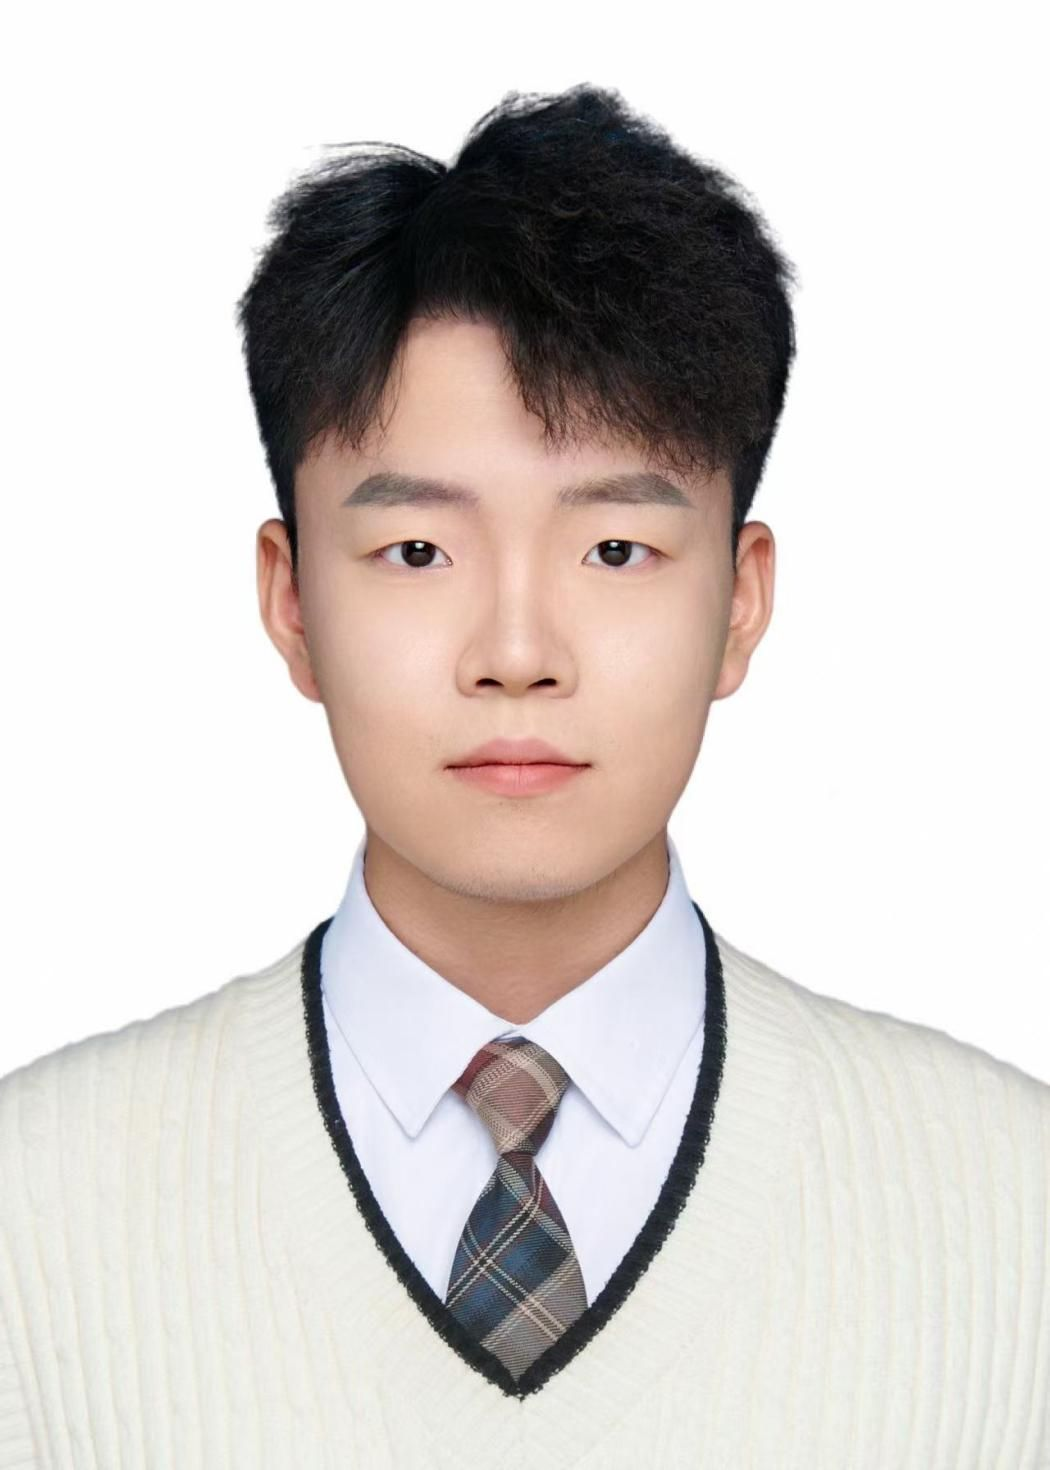
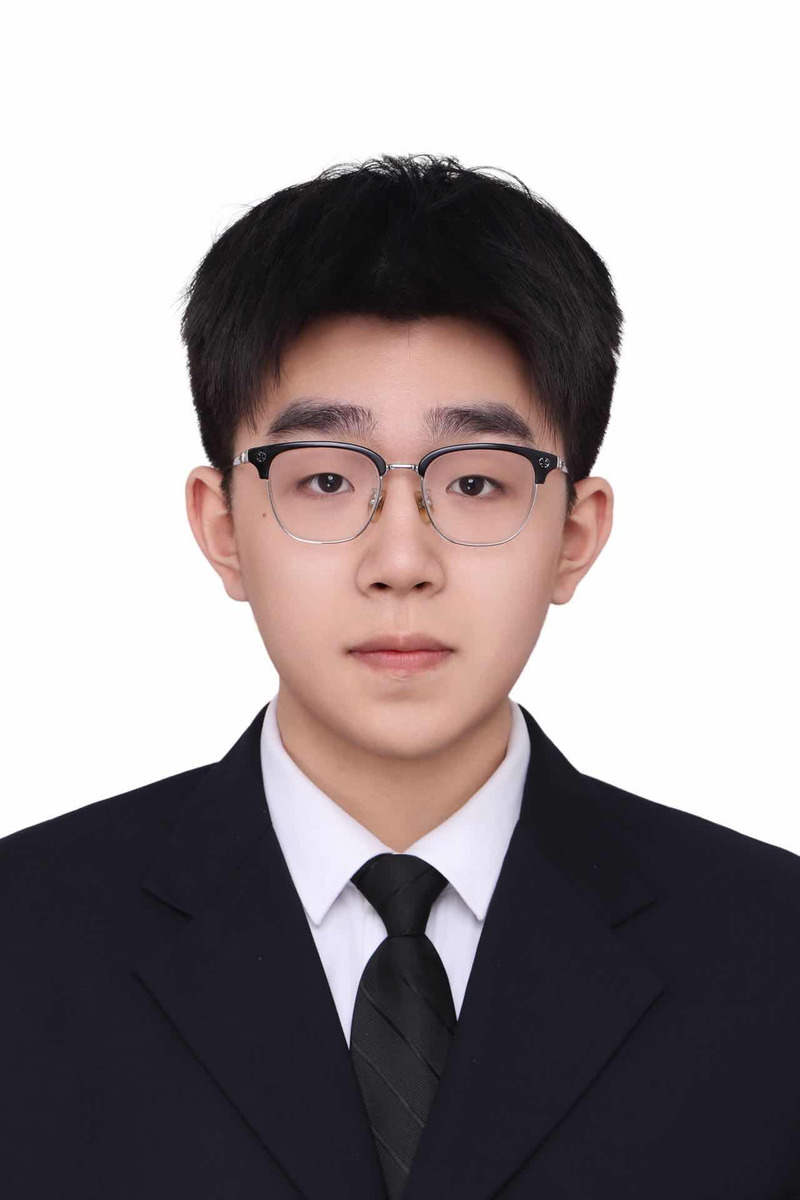
Update 2026 MPhil roster and member photos

diff --git a/members/preview.html b/members/preview.html
@@ -28,7 +28,7 @@
     左：<code>members/originals/</code>（原图，脚本不会改）。
     右：<code>members/images/</code>（站点实际使用）。
     规则：最长边不超过 1200px，JPEG 质量 92、4:4:4；已经更小的 JPEG 原样拷贝；<code>default.jpg</code> 不重压。
-    189 张对照；原图合计 68.7 MB，使用图合计 21.9 MB。
+    194 张对照；原图合计 74.1 MB，使用图合计 22.8 MB。
   </p>
   <div class="toolbar">
     <input type="search" id="q" placeholder="按文件名筛选…" />
@@ -2583,19 +2583,19 @@
   </div>
   
 </article>
-<article class="card" data-name="liyuhan liyuhan.jpg">
+<article class="card" data-name="liyuhan liyuhan.png">
   <h2>liyuhan</h2>
   <div class="pair">
     <figure>
-      <img src="originals/liyuhan.jpg" alt="liyuhan.jpg original" />
-      <figcaption>original · liyuhan.jpg · 1050×1470 · 90 KB</figcaption>
+      <img src="originals/liyuhan.png" alt="liyuhan.png original" />
+      <figcaption>original · liyuhan.png · 1280×1920 · 687 KB</figcaption>
     </figure>
     <figure>
       <img src="images/liyuhan.jpg" alt="liyuhan used" />
-      <figcaption>used · 1050×1470 · 90 KB · kept original bytes</figcaption>
+      <figcaption>used · 800×1200 · 94 KB · 14% of original</figcaption>
     </figure>
   </div>
-  
+
 </article>
 <article class="card" data-name="guozimo guozimo.jpg">
   <h2>guozimo</h2>
@@ -2680,6 +2680,76 @@
     </figure>
   </div>
   
+</article>
+<article class="card" data-name="zhengjialong zhengjialong.jpg">
+  <h2>zhengjialong</h2>
+  <div class="pair">
+    <figure>
+      <img src="originals/zhengjialong.jpg" alt="zhengjialong.jpg original" />
+      <figcaption>original · zhengjialong.jpg · 1050×1470 · 90 KB</figcaption>
+    </figure>
+    <figure>
+      <img src="images/zhengjialong.jpg" alt="zhengjialong used" />
+      <figcaption>used · 1050×1470 · 90 KB · kept original bytes</figcaption>
+    </figure>
+  </div>
+
+</article>
+<article class="card" data-name="shiqi shiqi.png">
+  <h2>shiqi</h2>
+  <div class="pair">
+    <figure>
+      <img src="originals/shiqi.png" alt="shiqi.png original" />
+      <figcaption>original · shiqi.png · 1280×1645 · 1059 KB</figcaption>
+    </figure>
+    <figure>
+      <img src="images/shiqi.jpg" alt="shiqi used" />
+      <figcaption>used · 934×1200 · 171 KB · 16% of original</figcaption>
+    </figure>
+  </div>
+
+</article>
+<article class="card" data-name="tangruijie tangruijie.jpg">
+  <h2>tangruijie</h2>
+  <div class="pair">
+    <figure>
+      <img src="originals/tangruijie.jpg" alt="tangruijie.jpg original" />
+      <figcaption>original · tangruijie.jpg · 800×1000 · 63 KB</figcaption>
+    </figure>
+    <figure>
+      <img src="images/tangruijie.jpg" alt="tangruijie used" />
+      <figcaption>used · 800×1000 · 63 KB · kept original bytes</figcaption>
+    </figure>
+  </div>
+
+</article>
+<article class="card" data-name="chaiying chaiying.png">
+  <h2>chaiying</h2>
+  <div class="pair">
+    <figure>
+      <img src="originals/chaiying.png" alt="chaiying.png original" />
+      <figcaption>original · chaiying.png · 900×1260 · 621 KB</figcaption>
+    </figure>
+    <figure>
+      <img src="images/chaiying.jpg" alt="chaiying used" />
+      <figcaption>used · 857×1200 · 155 KB · 25% of original</figcaption>
+    </figure>
+  </div>
+
+</article>
+<article class="card" data-name="zhangcheng zhangcheng.png">
+  <h2>zhangcheng</h2>
+  <div class="pair">
+    <figure>
+      <img src="originals/zhangcheng.png" alt="zhangcheng.png original" />
+      <figcaption>original · zhangcheng.png · 1254×1254 · 3048 KB</figcaption>
+    </figure>
+    <figure>
+      <img src="images/zhangcheng.jpg" alt="zhangcheng used" />
+      <figcaption>used · 1200×1200 · 344 KB · 11% of original</figcaption>
+    </figure>
+  </div>
+
 </article>
   <script>
     const cards = [...document.querySelectorAll('.card')];

diff --git a/group.html b/group.html
@@ -697,15 +697,15 @@
             <p>Yilin Jiang <i class="fa fa-external-link member-home" aria-hidden="true"></i></p>
           </div>
         </a>
-        <div class="member-item" data-affiliation="hkust">
+        <a class="member-item" href="https://yuhan-leee.github.io/" target="_blank" rel="noopener noreferrer" data-affiliation="hkust">
           <div class="member-card">
             <div class="member-avatar"><img loading="lazy" width="120" height="120" src="members/images/liyuhan.jpg" alt="Yuhan Li" onerror="this.onerror=null;this.src='members/images/default.jpg'" /></div>
-            <p>Yuhan Li</p>
+            <p>Yuhan Li <i class="fa fa-external-link member-home" aria-hidden="true"></i></p>
           </div>
-        </div>
+        </a>
         <div class="member-item" data-affiliation="hkust">
           <div class="member-card">
-            <div class="member-avatar"><img loading="lazy" width="120" height="120" src="members/images/default.jpg" alt="Jialong Zheng" onerror="this.onerror=null;this.src='members/images/default.jpg'" /></div>
+            <div class="member-avatar"><img loading="lazy" width="120" height="120" src="members/images/zhengjialong.jpg" alt="Jialong Zheng" onerror="this.onerror=null;this.src='members/images/default.jpg'" /></div>
             <p>Jialong Zheng</p>
           </div>
         </div>
@@ -733,12 +733,36 @@
             <p>Liang Sun</p>
           </div>
         </div>
-        <div class="member-item" data-affiliation="hkust">
+        <a class="member-item" href="https://scholar.google.com/citations?hl=zh-CN&amp;user=2htL4WsAAAAJ" target="_blank" rel="noopener noreferrer" data-affiliation="hkust">
           <div class="member-card">
             <div class="member-avatar"><img loading="lazy" width="120" height="120" src="members/images/xiaojingxuan.jpg" alt="Jingxuan Xiao" onerror="this.onerror=null;this.src='members/images/default.jpg'" /></div>
-            <p>Jingxuan Xiao</p>
+            <p>Jingxuan Xiao <i class="fa fa-external-link member-home" aria-hidden="true"></i></p>
+          </div>
+        </a>
+        <div class="member-item" data-affiliation="hkust">
+          <div class="member-card">
+            <div class="member-avatar"><img loading="lazy" width="120" height="120" src="members/images/shiqi.jpg" alt="Qi Shi" onerror="this.onerror=null;this.src='members/images/default.jpg'" /></div>
+            <p>Qi Shi</p>
           </div>
         </div>
+        <div class="member-item" data-affiliation="hkust">
+          <div class="member-card">
+            <div class="member-avatar"><img loading="lazy" width="120" height="120" src="members/images/tangruijie.jpg" alt="Ruijie Tang" onerror="this.onerror=null;this.src='members/images/default.jpg'" /></div>
+            <p>Ruijie Tang</p>
+          </div>
+        </div>
+        <div class="member-item" data-affiliation="hkust">
+          <div class="member-card">
+            <div class="member-avatar"><img loading="lazy" width="120" height="120" src="members/images/chaiying.jpg" alt="Ying Chai" onerror="this.onerror=null;this.src='members/images/default.jpg'" /></div>
+            <p>Ying Chai</p>
+          </div>
+        </div>
+        <a class="member-item" href="https://zhiliangzhang.github.io/ZHILIANGZHANG/" target="_blank" rel="noopener noreferrer" data-affiliation="hkust">
+          <div class="member-card">
+            <div class="member-avatar"><img loading="lazy" width="120" height="120" src="members/images/zhangcheng.jpg" alt="Cheng Zhang" onerror="this.onerror=null;this.src='members/images/default.jpg'" /></div>
+            <p>Cheng Zhang <i class="fa fa-external-link member-home" aria-hidden="true"></i></p>
+          </div>
+        </a>
       </div>
       <h3 class="year-subtitle">2025</h3>
       <div class="member-grid">
